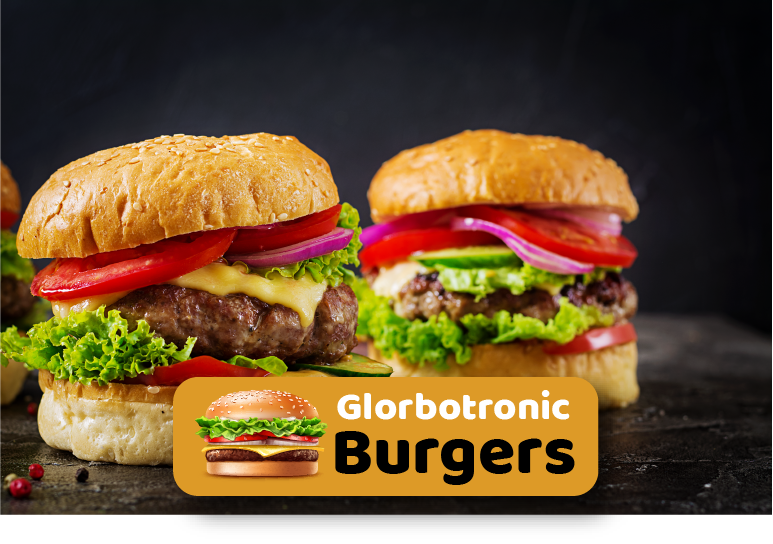
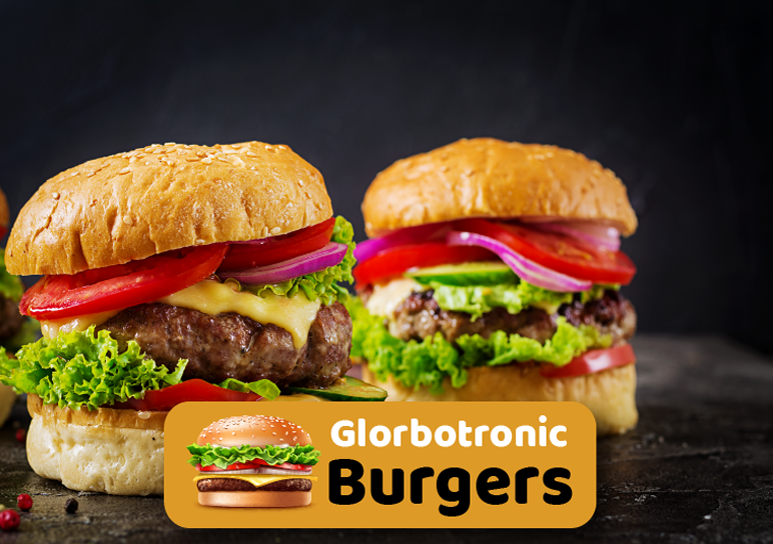
Fixed slick slider on home page

diff --git a/scratch-to-win-react/src/components/form.js b/scratch-to-win-react/src/components/form.js
@@ -224,18 +224,23 @@ class Form extends Component {
                         </legend>
 
                         <div className="formContent">
+                            <label htmlFor="fName">First Name:</label>
                             <input onChange={ (e) => this.showError( e.target ,0 )}   className="formInput" type="text" autoComplete="given-name" id="fName" name="fName" placeholder="First Name" pattern="^(?! )[A-Za-z\s]*$" required />
                             <div className="invalidInput hidden"><p>Please Enter Your First Name </p></div>
 
+                            <label htmlFor="lName">Last Name:</label>
                             <input onChange={(e) => this.showError( e.target , 1 )}  className="formInput" type="text" autoComplete="family-name" id="lName" name="lName" placeholder="Last Name" pattern="^(?! )[A-Za-z\s]*$" required />
                             <div className="invalidInput hidden"><p>Please Enter Your Last Name </p></div>
 
+                            <label htmlFor="address">Address:</label>
                             <input onChange={(e) => this.showError( e.target , 2 )} className="formInput" type="text" autoComplete="street-address" id="address" name="address" placeholder="Address" required />
                             <div className="invalidInput hidden"><p>Please Enter Your Full Address </p></div>
 
+                            <label htmlFor="phone">Phone Number:</label>
                             <input onChange={(e) => this.showError( e.target , 3 )} className="formInput" type="tel" autoComplete="tel" id="phone" name="phone" placeholder="Phone Number" maxLength="10" minLength="10" pattern="[0-9]{3}[0-9]{3}[0-9]{4}" required/>
                             <div className="invalidInput hidden"><p>Please Enter Your Phone Number </p></div>
 
+                            <label htmlFor="email">Email:</label>
                             <input onChange={(e) => this.showError( e.target , 4 )} className="formInput" type="email" autoComplete="email" id="email" name="email" placeholder="Email" required/>
                             <div className="invalidInput hidden" ><p>Please Enter Your Email </p></div>
 

diff --git a/scratch-to-win-react/src/components/scratch-home.js b/scratch-to-win-react/src/components/scratch-home.js
@@ -2,6 +2,8 @@ import React from 'react';
 import {Link} from 'react-router-dom';
 
 import Slider from 'react-slick';
+import "slick-carousel/slick/slick.css";
+import "slick-carousel/slick/slick-theme.css";
 
 class ScratchHome extends React.Component {
 
@@ -17,7 +19,7 @@ class ScratchHome extends React.Component {
             dots: true,
             autoplay: true,
             infinite: true,
-            autoplaySpeed: 5000,
+            autoplaySpeed: 3000,
             slidesToShow: 1,
             variableWidth: true,
             lazyLoad: 'ondemand',
@@ -77,9 +79,9 @@ class ScratchHome extends React.Component {
                     <section className="sponsorSection">
                         <Slider {...this.sponsorSlickSettings}>
                             <img className="sponsorImg" src={require("../images/Fresh Kicks-o-matic Dispenso Booths.png")}/>
-                            {/* <img className="sponsorImg" src={require("../images/Glorbotronic Burgers.png")}/>
-                            <img src={require("../images/Raw-Cabbage-on-a-stick Hut.png")}/>
-                            <img src={require("../images/taco_superstore.png")}/> */}
+                            <img className="sponsorImg" src={require("../images/Glorbotronic Burgers.png")}/>
+                            <img className="sponsorImg" src={require("../images/Raw-Cabbage-on-a-stick Hut.png")}/>
+                            <img className="sponsorImg" src={require("../images/taco_superstore.png")}/>
                         </Slider>
                     </section>
                 </section>

diff --git a/scratch-to-win-react/src/css/style.css b/scratch-to-win-react/src/css/style.css
@@ -157,6 +157,7 @@ legend {
 
 .card {
     text-align: center;
+    height: 300px;
 }
 
 .card img {
@@ -190,12 +191,15 @@ legend {
     overflow: hidden;
     margin-left: 90px;
     display: flex;
+    max-height: 350px;
 }
 
 .sponsorSection .slick-next {
-    position: relative;
+    position: absolute;
     margin: 140px 10px;
-    right: 0;
+    right: -25px;
+    left: 1095px;
+    top: 0;
     -webkit-transform: translate(0, 0);
     -ms-transform: translate(0, 0);
     transform: translate(0, 0)
@@ -209,9 +213,9 @@ legend {
 }
 
 .sponsorImg {
-    height: 350px;
-    width: 350px;
+    max-height: 350px;
     margin: 0 10px;
+    padding: 0 10px;
 }
 
 .verticalTab {

diff --git a/scratch-to-win-react/src/components/header.js b/scratch-to-win-react/src/components/header.js
@@ -17,10 +17,7 @@ class Header extends React.Component {
                         <Link to="/form" className="navlink"> GAME </Link>
                     </li>
                     <li>                
-                        <Link to="/game" className="navlink"> FAQ </Link>
-                    </li>
-                    <li>                
-                        <Link to="/contact" className="navlink"> CONTACT </Link>
+                        <Link to="/legal" className="navlink"> LEGAL </Link>
                     </li>
                 </ul>
             </nav>

diff --git a/scratch-to-win-react/src/css/game-stlye.css b/scratch-to-win-react/src/css/game-stlye.css
@@ -1,11 +1,9 @@
 .game-container {
-    height: 100vh;
     background-image: url(../images/form_background.png);
     background-position: top center;
     background-repeat: no-repeat;
     background-size: cover;
-    padding-left: 150px;
-    padding-right: 150px;
+    padding: 50px 150px;
 
 }
 

diff --git a/scratch-to-win-react/src/css/form-style.css b/scratch-to-win-react/src/css/form-style.css
@@ -116,7 +116,6 @@ label {
 }
 
 input[type='submit']{
-    width: 80%;
     background-color: #E99F22;
     border: transparent;
     font-size: 20pt;
